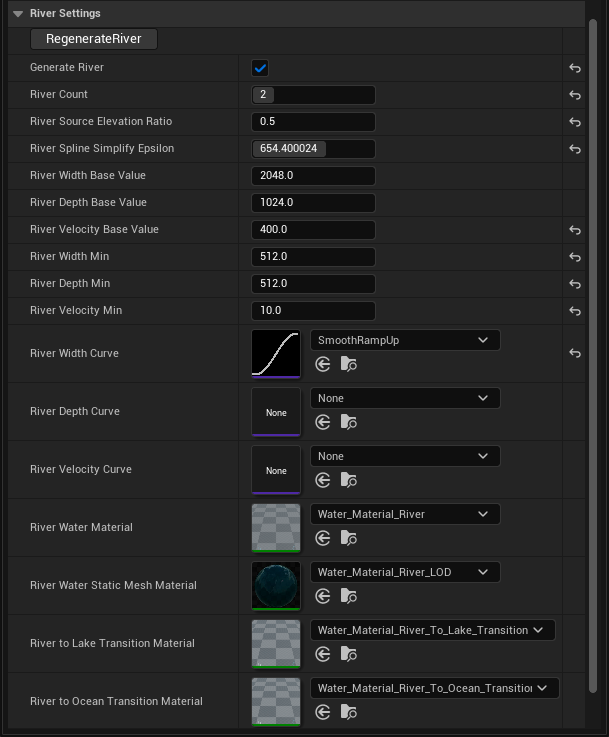
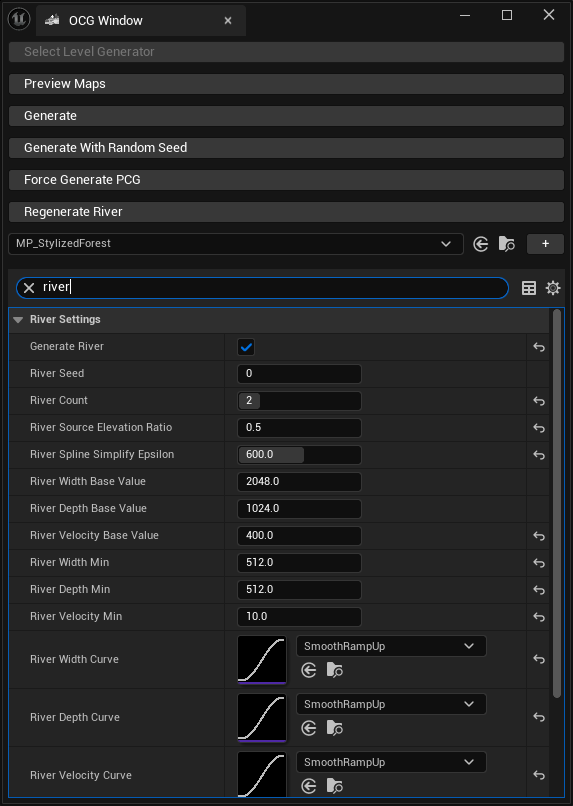
강 생성 문서 업데이트

diff --git a/docs/map_preset/river_settings.md b/docs/map_preset/river_settings.md
@@ -19,12 +19,14 @@ This document explains how to generate rivers in a level using the MapPreset ass
 
 ## Map Preset River Settings
 ![MapPreset River Settings]({{ site.baseurl }}/assets/images/map_preset/river_settings/river_settings.png)
+![alt text](image.png)
 
 ## River Generation Parameters
 
 | Property Name                 | Description                                                                                                                                                                                                       |
 | :---------------------------- | :---------------------------------------------------------------------------------------------------------------------------------------------------------------------------------------------------------------- |
 | Regenerate River              | Removes all existing rivers in the current level and generates new ones.<br>**Note:** This function can only be called in the editor.                                                                             |
+| River Seed                    | This is the seed for random river generation. Rivers with the same shape will be generated in the same location when using the identical seed.                                                                    |
 | Generate River                | Determines whether to generate rivers in the current level.                                                                                                                                                       |
 | River Count                   | The number of rivers to generate. A maximum of 10 rivers can be created.                                                                                                                                          |
 | River Source Elevation Ratio  | A value that determines how high the river's starting point is from sea level.<br>You can specify a value between 0.5 and 1. The closer to 1, the higher up on the current landscape the river will be generated. |
